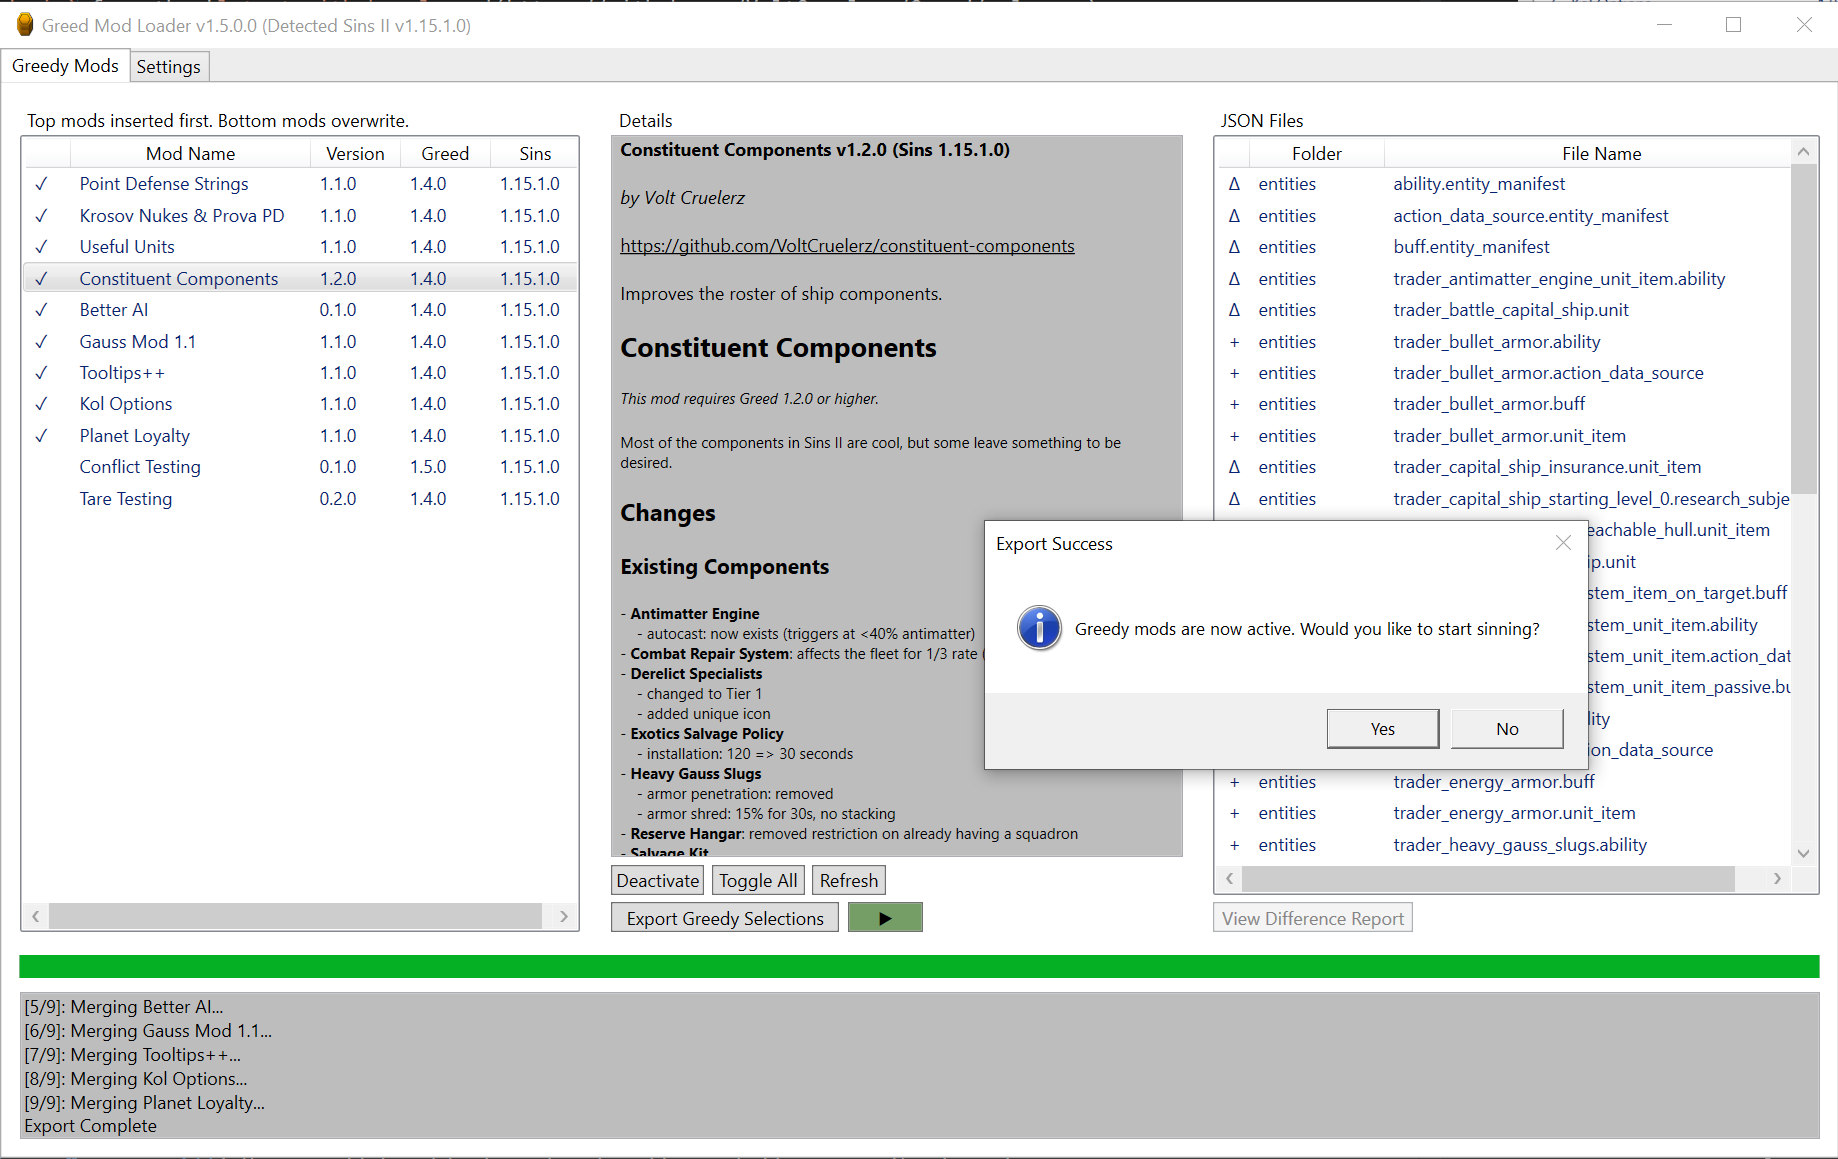
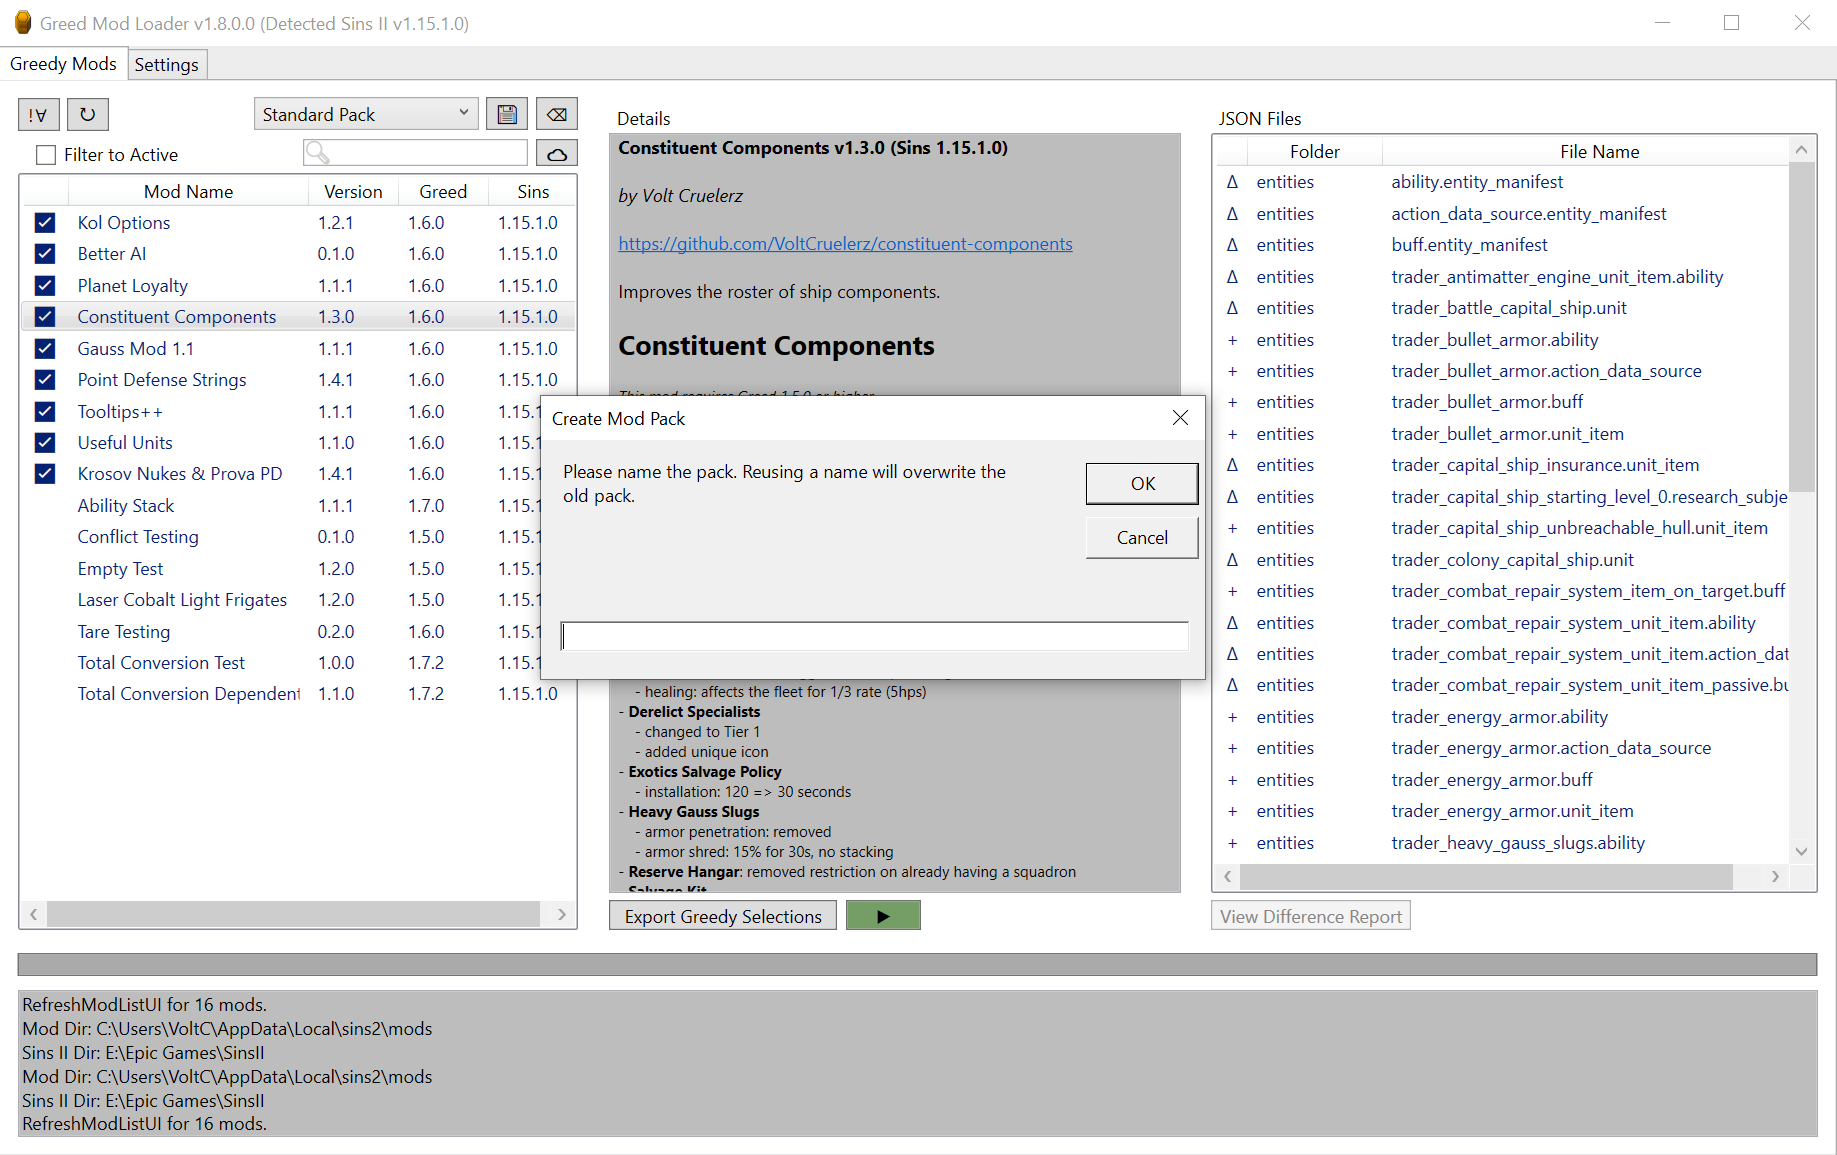
readme, updated UI for 1.8.0

Changed region(s): [[0.0, 0.0, 1.0, 1.0], [0.9309, 0.0, 0.9619, 0.0312]]

diff --git a/Greed/MainWindow.xaml b/Greed/MainWindow.xaml
@@ -19,7 +19,7 @@
                     <ColumnDefinition Width="409*"/>
                     <ColumnDefinition Width="432*"/>
                 </Grid.ColumnDefinitions>
-                <ListView x:Name="viewModList" d:ItemsSource="{d:SampleData ItemCount=5}" Margin="10,33,11,10"
+                <ListView x:Name="viewModList" d:ItemsSource="{d:SampleData ItemCount=5}" Margin="10,60,11,10"
                           SelectionChanged="ModList_SelectionChanged"
                           MouseDoubleClick="Toggle_Click"
                           MouseUp="ModList_MouseUp"
@@ -39,14 +39,13 @@
                         </GridView>
                     </ListView.View>
                 </ListView>
-                <localControls:TxtModBox x:Name="TxtLocalModInfo" AutomationProperties.HelpText="Select a mod to see its details." IsReadOnly="True" Grid.Column="1" Margin="10,33,10,60" Background="#FFBDBDBD">
+                <localControls:TxtModBox x:Name="TxtLocalModInfo" AutomationProperties.HelpText="Select a mod to see its details." IsReadOnly="True" Grid.Column="1" Margin="10,33,10,35" Background="#FFBDBDBD">
                     <FlowDocument>
                         <Paragraph>
                             <Run Text=""/>
                         </Paragraph>
                     </FlowDocument>
                 </localControls:TxtModBox>
-                <Button x:Name="cmdToggle" Content="Toggle" Margin="10,0,0,35" Click="Toggle_Click" IsEnabled="False" HorizontalAlignment="Left" Width="62" Grid.Column="1" ToolTip="Toggle whether a mod is active or not." Height="20" VerticalAlignment="Bottom"/>
                 <Button x:Name="cmdExport" Content="Export Greedy Selections" Click="Export_Click" Margin="10,0,0,10" Grid.Column="1" ToolTip="Imports the active mods and exports them to mods/greed and turns greed on." Height="20" VerticalAlignment="Bottom" HorizontalAlignment="Left" Width="152"/>
                 <ListView x:Name="viewFileList" d:ItemsSource="{d:SampleData ItemCount=5}" Margin="10,33,10,35" MouseDoubleClick="Diff_Click" Grid.Column="2" SelectionChanged="FileList_SelectionChanged">
                     <ListView.View>
@@ -60,18 +59,20 @@
                 <Button x:Name="cmdDiff" Content="View Difference Report" Margin="10,0,0,10" VerticalAlignment="Bottom" Click="Diff_Click" IsEnabled="False" HorizontalAlignment="Left" Width="133" Height="20" Grid.Column="2" ToolTip="Display a difference report between the gold copy and the execution product."/>
                 <Label Content="JSON Files" HorizontalAlignment="Left" Margin="10,10,0,0" VerticalAlignment="Top" Height="26" Width="265" Grid.Column="2"/>
                 <Button x:Name="cmdPlay" Grid.Column="1" Content="▶" Margin="168,0,0,10" RenderTransformOrigin="-0.059,-0.389" Height="20" VerticalAlignment="Bottom" Background="#FF759E66" Click="Play_Click" ToolTip="Launch Sins II" HorizontalAlignment="Left" Width="50"/>
-                <Button x:Name="cmdToggleAll" Content="Toggle All" Margin="77,0,0,35" VerticalAlignment="Bottom" Click="ToggleAll_Click" HorizontalAlignment="Left" Width="62" Height="20" Grid.Column="1" ToolTip="Toggle all mods on or off."/>
+                <Button x:Name="cmdToggleAll" Content="!∀" Margin="10,10,0,0" VerticalAlignment="Top" Click="ToggleAll_Click" Height="22" ToolTip="Toggle all mods on or off." HorizontalAlignment="Left" Width="28"/>
                 <ProgressBar x:Name="pgbProgress" Margin="10,5,10,117" Grid.ColumnSpan="3" Foreground="#FF06B025" Background="#FFAAAAAA" BorderBrush="#FF747474" Value="0" Grid.Row="1" />
                 <TextBox x:Name="txtLog" Margin="10,30,10,10" Grid.Row="1" TextWrapping="Wrap" Text="" Grid.ColumnSpan="3" Background="#FFBDBDBD" IsReadOnly="True"/>
                 <Label Content="Details" HorizontalAlignment="Left" Margin="10,10,0,0" VerticalAlignment="Top" Height="26" Width="265" Grid.Column="1"/>
-                <Button x:Name="cmdRefresh" Content="Refresh Sources" Margin="144,0,0,35" VerticalAlignment="Bottom" Click="Refresh_Click" HorizontalAlignment="Left" Width="90" Height="20" Grid.Column="1" ToolTip="Refresh the mod list."/>
-                <TextBox x:Name="TxtSearchMods" Margin="0,15,44,0" TextWrapping="Wrap" Text="" VerticalAlignment="Top" HorizontalAlignment="Right" Width="135" AutomationProperties.HelpText="Search 🔍" HorizontalContentAlignment="Right" TextChanged="TxtSearchMods_TextChanged"/>
-                <Label Content="🔍" Margin="0,9,152,0" VerticalAlignment="Top" Height="28" HorizontalAlignment="Right" Width="32" FontSize="14"/>
-                <CheckBox x:Name="CheckActive" Content="Active" HorizontalAlignment="Left" Margin="21,18,0,0" VerticalAlignment="Top" Unchecked="CheckActive_Toggle" Checked="CheckActive_Toggle"/>
-                <Button x:Name="CmdOnline" Content="☁" HorizontalAlignment="Right" Margin="0,15,11,0" VerticalAlignment="Top" Height="18" FontWeight="UltraBold" Width="28
-                        " BorderBrush="#FF707070" Click="CmdOnline_Click" ToolTip="View online catalog of Greedy mods.">
+                <Button x:Name="cmdRefresh" Content="↻" Padding="0,-4,1,1" Margin="43,10,0,0" VerticalAlignment="Top" Click="Refresh_Click" HorizontalAlignment="Left" Width="28" Height="22" ToolTip="Refresh the mod list." FontSize="16"/>
+                <TextBox x:Name="TxtSearchMods" Margin="0,37,44,0" TextWrapping="Wrap" Text="" VerticalAlignment="Top" HorizontalAlignment="Right" Width="150" AutomationProperties.HelpText="Search 🔍" HorizontalContentAlignment="Right" TextChanged="TxtSearchMods_TextChanged"/>
+                <Label Content="🔍" Margin="0,31,167,0" VerticalAlignment="Top" Height="28" HorizontalAlignment="Right" Width="32" FontSize="14" Foreground="#FFCDCDCD"/>
+                <CheckBox x:Name="CheckActive" Content="Filter to Active" HorizontalAlignment="Left" Margin="21,40,0,0" VerticalAlignment="Top" Unchecked="CheckActive_Toggle" Checked="CheckActive_Toggle"/>
+                <Button x:Name="CmdOnline" Content="☁" HorizontalAlignment="Right" Margin="0,37,11,0" VerticalAlignment="Top" Height="18" FontWeight="UltraBold" Width="28
+                        " BorderBrush="#FF707070" Click="CmdOnline_Click" ToolTip="View online catalog of Greedy mods." RenderTransformOrigin="0.379,0.19">
                 </Button>
-                <Button x:Name="CmdSaveBundle" Content="Save Bundle" Margin="239,0,0,35" VerticalAlignment="Bottom" Click="CmdSaveBundle_Click" HorizontalAlignment="Left" Width="77" Height="20" Grid.Column="1" ToolTip="Saves the current list of active mods as a bundle."/>
+                <ComboBox x:Name="CbxBundles" Margin="0,9,77,0" VerticalAlignment="Top" HorizontalAlignment="Right" Width="150" SelectionChanged="CbxBundles_SelectionChanged"/>
+                <Button x:Name="CmdSaveBundle" Content="💾" Margin="0,9,44,0" Click="CmdSaveBundle_Click" VerticalAlignment="Top" ToolTip="Saves the current list of active mods as a bundle." Height="22" HorizontalAlignment="Right" Width="28"/>
+                <Button x:Name="CmdDeleteBundle" Content="⌫" Margin="0,9,11,0" Click="CmdDeleteBundle_Click" VerticalAlignment="Top" ToolTip="Delete the selected bundle." Height="22" HorizontalAlignment="Right" Width="28"/>
             </Grid>
         </TabItem>
         <TabItem x:Name="TabSettings" Header="Settings">

diff --git a/Greed/MainWindow.xaml.cs b/Greed/MainWindow.xaml.cs
@@ -4,6 +4,7 @@ using Greed.Models;
 using Greed.Models.Json;
 using Greed.Models.ListItem;
 using Greed.Models.Online;
+using Microsoft.VisualBasic;
 using System;
 using System.Collections.Generic;
 using System.Configuration;
@@ -15,6 +16,7 @@ using System.Threading.Tasks;
 using System.Windows;
 using System.Windows.Controls;
 using System.Windows.Media;
+using System.Xml.Linq;
 
 namespace Greed
 {
@@ -49,6 +51,7 @@ namespace Greed
             InitializeComponent();
             SetTitle();
             ReloadCatalog();
+            RefreshVaultPackUI();
             PrintSync("Components Loaded");
 
             // Shift the log history.
@@ -70,7 +73,7 @@ namespace Greed
             PopulateConfigField(txtSinsDir, "sinsDir", "C:\\Program Files\\Epic Games\\SinsII");
             PopulateConfigField(txtDownloadDir, "downDir", Path.Combine(
                     Environment.GetFolderPath(Environment.SpecialFolder.UserProfile),  "Downloads"));
-            PopulateCbx(CbxChannel, "channel");
+            PopulateConfigCbx(CbxChannel, "channel");
             PrintSync("Directories Explored");
 
             // Only load mods if there's something to load.
@@ -186,8 +189,6 @@ namespace Greed
             // This gets hit when refreshing the display.
             if (e.AddedItems.Count == 0)
             {
-                cmdToggle.IsEnabled = false;
-                cmdToggle.Content = "Toggle";
                 return;
             }
             var item = (ModListItem)e.AddedItems[0]!;
@@ -196,9 +197,6 @@ namespace Greed
             // Ignore the user re-clicking.
             if (newSelection == SelectedMod)
             {
-                // Cleanup the button text and return.
-                cmdToggle.IsEnabled = true;
-                cmdToggle.Content = SelectedMod.IsActive ? "Deactivate" : "Activate";
                 return;
             }
             SelectedMod = newSelection;
@@ -226,8 +224,6 @@ namespace Greed
             UpdateRightClickMenuOptions();
 
             // It starts disabled since nothing is selected.
-            cmdToggle.IsEnabled = true;
-            cmdToggle.Content = SelectedMod.IsActive ? "Deactivate" : "Activate";
             cmdDiff.IsEnabled = false;
 
             ReloadSourceFileList();
@@ -313,6 +309,7 @@ namespace Greed
             }
             RefreshModListUI();
             ReselectSelection();
+            ClearCbxBundlesIfMismatch();
         }
 
         private void ToggleAll_Click(object sender, RoutedEventArgs e)
@@ -333,6 +330,7 @@ namespace Greed
             }
             RefreshModListUI();
             ReselectSelection();
+            ClearCbxBundlesIfMismatch();
         }
 
         private void Refresh_Click(object sender, RoutedEventArgs e)
@@ -506,7 +504,7 @@ namespace Greed
         /// </summary>
         /// <param name="cbx"></param>
         /// <param name="key"></param>
-        private static void PopulateCbx(ComboBox cbx, string key)
+        private static void PopulateConfigCbx(ComboBox cbx, string key)
         {
             var val = ConfigurationManager.AppSettings[key]!;
             foreach (var item in cbx.Items)
@@ -734,9 +732,67 @@ namespace Greed
             ReloadModListFromDiskAsync();
         }
 
+        #region Bundles
+        private void RefreshVaultPackUI()
+        {
+            CbxBundles.Items.Clear();
+            foreach (var pack in Vault.Packs)
+            {
+                CbxBundles.Items.Add(pack.Key);
+            }
+        }
+
         private void CmdSaveBundle_Click(object sender, RoutedEventArgs e)
         {
+            var name = Interaction.InputBox("Please name the pack. Reusing a name will overwrite the old pack.", "Create Mod Pack");
 
+            if (string.IsNullOrEmpty(name))
+            {
+                return;
+            }
+
+            if (name.Contains('"') || name.Contains('\\'))
+            {
+                CriticalAlertPopup("Pack Creation Error", "You cannot create a mod pack with a name containing quotes or escape characters.");
+                return;
+            }
+
+            Vault.UpsertPack(name, Mods);
+            RefreshVaultPackUI();
         }
+
+        private void CmdDeleteBundle_Click(object sender, RoutedEventArgs e)
+        {
+            if (CbxBundles.SelectedItem == null) return;
+
+            Vault.DeletePack((string)CbxBundles.SelectedItem);
+            RefreshVaultPackUI();
+            CbxBundles.SelectedItem = null;
+        }
+
+        private void CbxBundles_SelectionChanged(object sender, SelectionChangedEventArgs e)
+        {
+            if (CbxBundles.SelectedItem == null) return;
+
+            var activePack = Vault.Packs[(string)CbxBundles.SelectedItem];
+            Mods.ForEach(m => m.SetModActivity(Mods, activePack.Contains(m.Id), true));
+            Vault.ExportActiveOnly(Mods);
+            RefreshModListUI();
+        }
+
+        private void ClearCbxBundlesIfMismatch()
+        {
+            if (CbxBundles.SelectedItem == null) return;
+
+            var activePack = Vault.Packs[(string)CbxBundles.SelectedItem];
+
+            var actualActive = Mods.Where(m => m.IsActive).Select(m => m.Id).ToList();
+
+            if (activePack.Count != actualActive.Count || activePack.Any(ap => !actualActive.Contains(ap)) || actualActive.Any(aa => !activePack.Contains(aa)))
+            {
+                CbxBundles.SelectedItem = null;
+            }
+        }
+        #endregion
     }
 }

diff --git a/Greed/Models/Mod.cs b/Greed/Models/Mod.cs
@@ -396,6 +396,19 @@ namespace Greed.Models
             return Id;
         }
 
+
+        public void SetModActivity(List<Mod> allMods, bool willBeActive, bool force)
+        {
+            if (force)
+            {
+                IsActive = willBeActive;
+            }
+            else
+            {
+                SetModActivity(allMods, willBeActive);
+            }
+        }
+
         public void SetModActivity(List<Mod> allMods, bool willBeActive)
         {
             var activeMods = allMods.Where(mod => mod.IsActive);

diff --git a/Greed/Models/GreedVault.cs b/Greed/Models/GreedVault.cs
@@ -61,5 +61,18 @@ namespace Greed.Models
             Active = allMods.Where(m => m.IsActive).Select(m => m.Id).ToList();
             Export();
         }
+
+        public void UpsertPack(string name, List<Mod> allMods)
+        {
+            var active = allMods.Where(m => m.IsActive).Select(m => m.Id).ToList();
+            Packs[name] = active;
+            Export();
+        }
+
+        public void DeletePack(string name)
+        {
+            Packs.Remove(name);
+            Export();
+        }
     }
 }

diff --git a/README.md b/README.md
@@ -24,7 +24,7 @@ _A mod loader for [Sins of a Solar Empire II](https://www.sinsofasolarempire2.co
 
 ### Mod Installation
 
-#### Automated Install
+#### Automated Install (Recommended)
 
 1. Press the `[☁]` button to view the online catalog.
 2. Right click on whatever mod you want to install.
@@ -41,22 +41,22 @@ _A mod loader for [Sins of a Solar Empire II](https://www.sinsofasolarempire2.co
 ## Advantages for Users
 
 - **No More Manual Deconfliction**: Deconfliction of commonly modified files happens automatically for you.
-- **Automated Installation**: You can automatically mods and their dependencies from a curated list.
-- **Easy Viewing**: Easily view the metadata, readme, and source files for any mod you download.
+- **Automated Installation**: You can automatically install mods and their dependencies from an online catalog.
 - **Conflict Detection**: You are warned if you try to enable mods with a known conflict between them.
 - **Dependency Management**: You are be warned if you attempt to enable a mod without its dependencies active.
+- **Mod Packs**: Easily create bundles of your favorite mods that you can quickly enable together.
 
 ## Greedy Mod Development
 
 ### Why Develop Greedy Mods?
 
 - **Selective Inclusion**: Your mod only needs to include what you changed about a particular source file (eg add a new property, delete a property, or add an array element), _drastically_ reducing the risk of collisions between mods.
-- **Patch Merge**: Intelligent merging of localization files.
+- **Patch Merge**: Intelligent merging of files, allowing automated merge even within the same file.
 - **Dependency Autoinstall**: Users can automatically install your mod's dependencies.
 - **Automated Updates**: Users can update to the latest version of your mod automatically.
 - **Comments**: You can add C-style comments to your source files.
 - **Reduced Boilerplate**: Fractional files reduces the effort required to make small mods
-- **Improved Exposure**: Greed ships with a viewer of curated Greedy mods. By getting added to that list, your mods can reach more users.
+- **Improved Exposure**: Greed comes with a catalog of online mods that can be automatically installed.
 - **File Diff**: Greed ships with a diff tool specifically for Sins II data files, allowing you to readily see exactly what you've done.
 
 ![screenshot](assets/DiffScreenshot.png)
